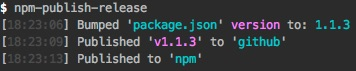
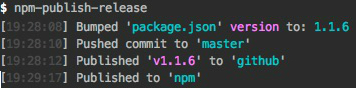
update README to include new commit feature

Changed region(s): [[0.0, 0.2254, 0.9888, 0.9859], [0.0, 0.0, 0.4326, 0.1972]]

diff --git a/bin/npm-publish-release.js b/bin/npm-publish-release.js
@@ -7,7 +7,7 @@
   var publish = require('../index');
 
   program
-      .version('1.1.6')
+      .version('1.1.7')
       .usage('[options] [pkgVersion]', 'patch')
       .description('Description:\n\n    ' + 'Automatically bump and publish a release to npm and/or github.\n\n    ' +
           '    [pkgVersion] can be one of the following:\n\n' +

diff --git a/README.md b/README.md
@@ -45,8 +45,9 @@ $ npm link && npm link npm-publish-release
 As mentioned earlier, the key is _simplicity_. With no additional options, `npm-publish-release` will do all of the following:
 
 1. Bump the `PATCH` version in `package.json`.
-2. Publish a `tag` to `github`.
-3. Publish a release to `npm`.
+2. Create a new commit with the text `"Bumping to version X.X.X", and push it to master
+3. Publish a `tag` to `github`.
+4. Publish a release to `npm`.
 
 ### CLI
 
